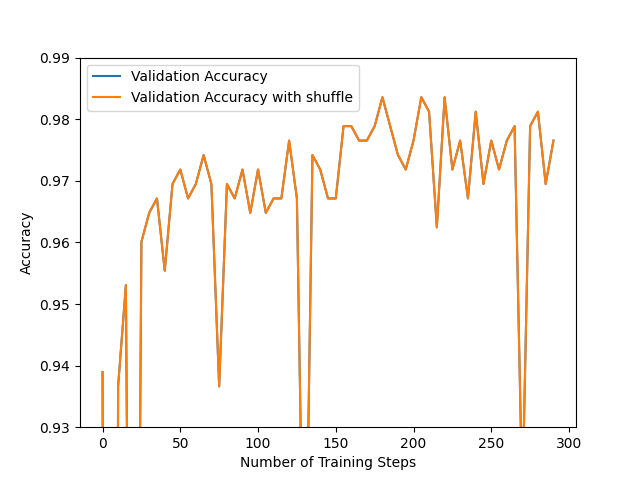
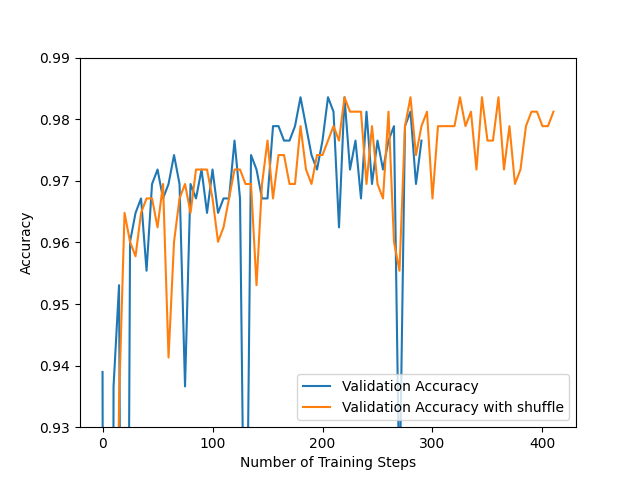
implemented shuffle

Changed region(s): [[0.125, 0.125, 0.9062, 0.9375], [0.25, 0.9062, 0.3438, 0.9375], [0.75, 0.9062, 0.7812, 0.9375]]

diff --git a/assignment1/utils.py b/assignment1/utils.py
@@ -27,6 +27,13 @@ def batch_loader(
 
     # TODO (task 2e) implement dataset shuffling here.
 
+    if shuffle:
+        ind_list = list(range(X.shape[0]))
+        np.random.shuffle(ind_list)
+        X = X[ind_list, :]
+        Y = Y[ind_list,]
+
+
     for i in range(num_batches):
         # select a set of indices for each batch of samples
         batch_indices = indices[i*batch_size:(i+1)*batch_size]
